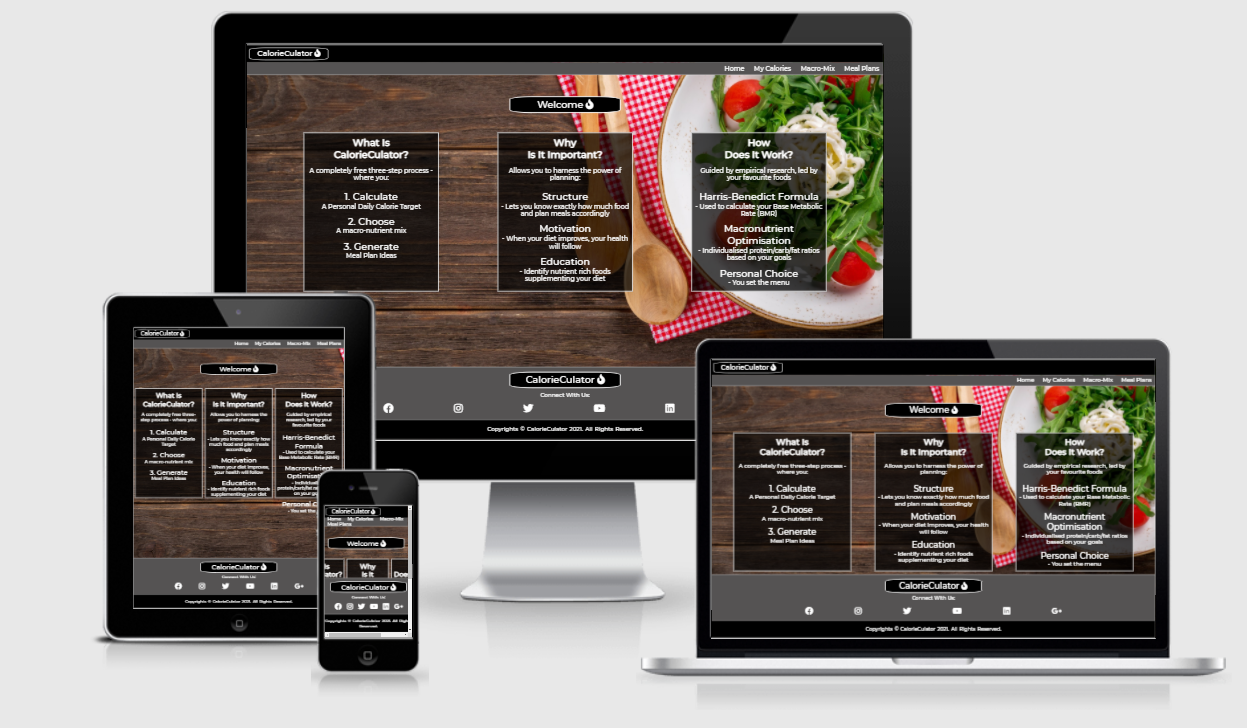
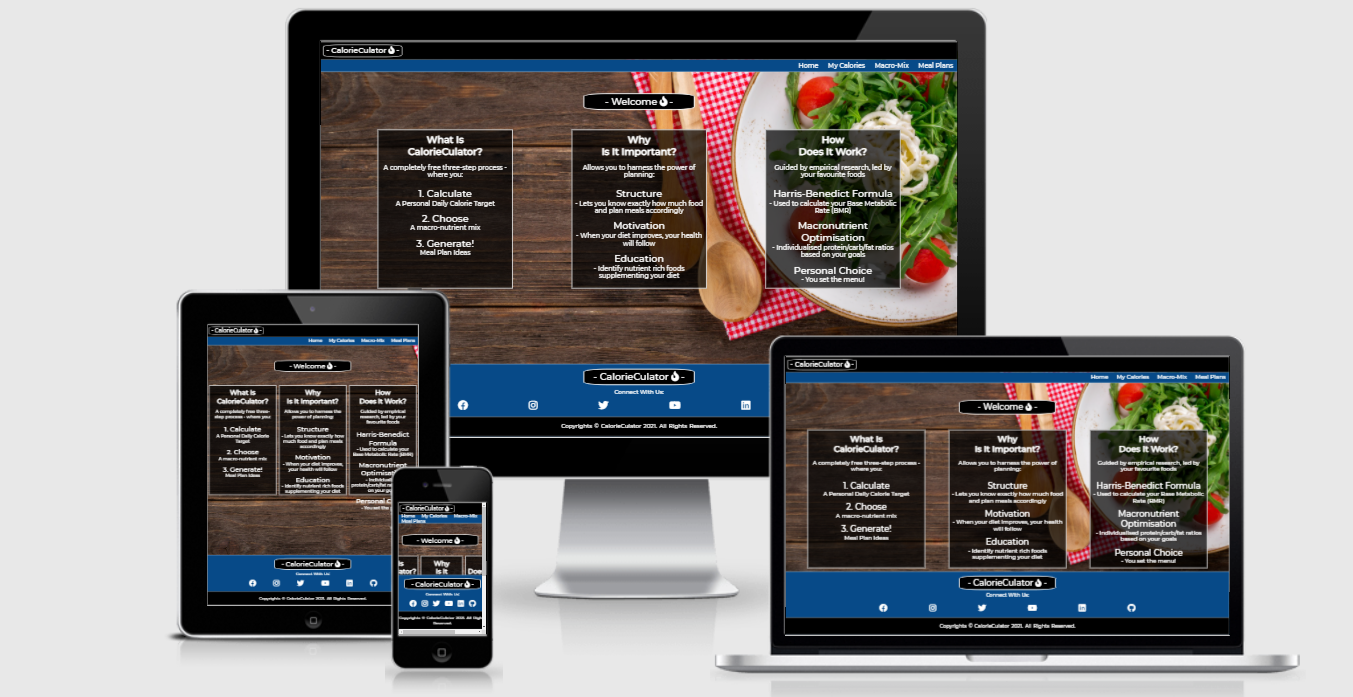
Update responsive screenshot for readme

diff --git a/index.html b/index.html
@@ -35,18 +35,18 @@
         <div class = "smallbox">
             <ul id="homelist">
                 <li> 
-                    <div class="homeEmphasis">1. Calculate</div> 
-                    <div>A Personal Daily Calorie Target</div>
+                    <div class="homeEmphasis">Step 1: Calculate</div> 
+                    <div>Your Personal Daily Calorie Target</div>
                 </li>
-                <li><div class="homeEmphasis">2. Choose</div> A macro-nutrient mix</li>
-                <li><div class="homeEmphasis">3. Generate!</div> Meal Plan Ideas</li>
+                <li><div class="homeEmphasis">Step 2: Choose</div> A macro-nutrient mix</li>
+                <li><div class="homeEmphasis">Step 3: Generate!</div> Instant Free Meal Plan Ideas</li>
             </ul>
         </div>
     </div>
     
     
     <div class = "box why">
-        <div class = "smallbox"><h2>Why</h2><h2>Is It Important?</h2></div>
+        <div class = "smallbox"><h2>Why</h2><h2>Should You Try?</h2></div>
         <div class = "smallbox"><p>Allows you to harness the power of planning:</p></div>
         <div class = "smallbox">
             <ul id="homelist">

diff --git a/README.md b/README.md
@@ -1,6 +1,8 @@
 
 # CalorieCulator - Work In Progress
-Provisional content: Under construction 
+
+![alt text](readme/logo.png)
+
 ## Introduction
 - CalorieCulator is a site aimed at people who want to take control of and improve their dietary habits
 - The site will initially request the user to input several key measurements (height, weight, age etc) - these measurements will then be used by JavaScript to populate a standard formula (BMR) to calculate and return a personalised daily calorie target
